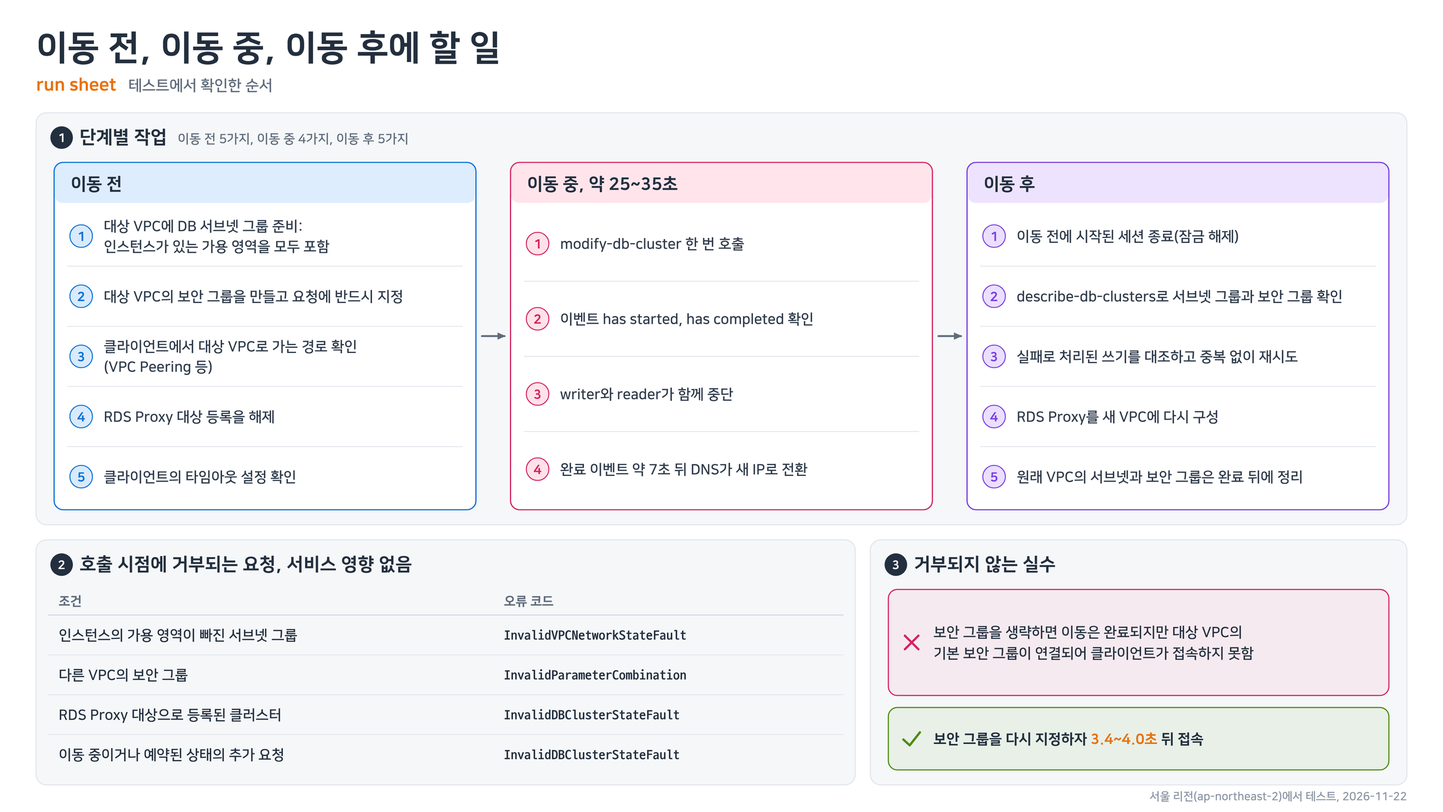
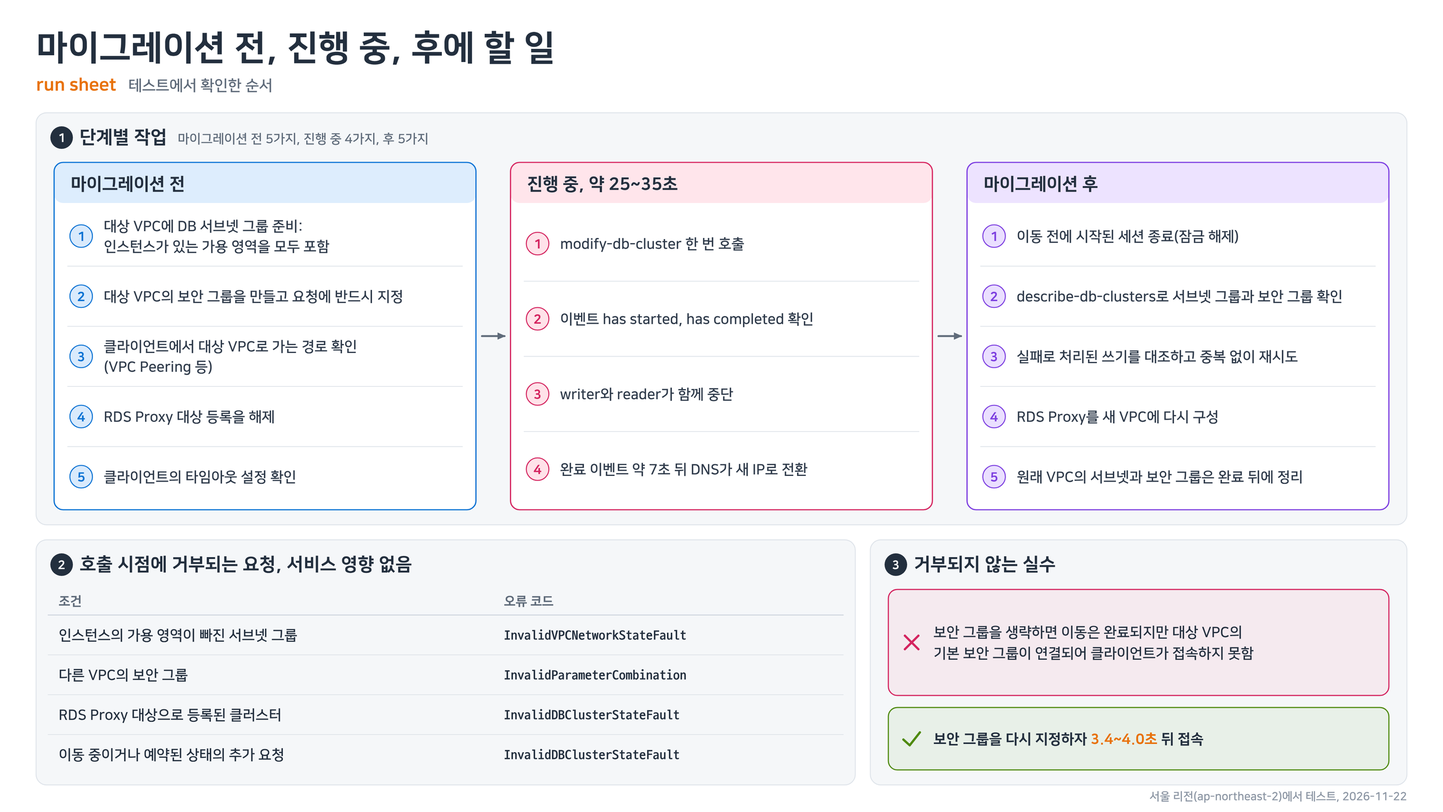
docs: revise the wording of the Aurora cluster VPC move post
- Open the first chapter with a background paragraph of two sentences
- Write "트레이드 오프가 있습니다" for "대가가 있습니다" in the chapter on sessions left on the server
  ("comes with a trade-off" in English)
- Name the phases "마이그레이션 전, 진행 중, 후" in the title of the last chapter, in figure 8
  (both versions) and in table 11 ("before, during and after the migration" in English)
- Add the changelog entry in both sections

diff --git a/docs/techblog/database/aurora-move-cluster-to-different-vpc-report.html b/docs/techblog/database/aurora-move-cluster-to-different-vpc-report.html
@@ -202,16 +202,17 @@ html[data-lang="en"] .l-ko{display:none!important}
 <div class="tags"><span>#Amazon Aurora</span><span>#Aurora PostgreSQL</span><span>#Aurora MySQL</span><span>#Amazon VPC</span><span>#ModifyDBCluster</span></div>
 <ul class="facts"><li><span class="l-ko"><b>중단 시간</b>: 유지 중이던 연결의 쓰기 중단은 VPC 간 이동 30회의 중앙값으로 24.7초(최소 18.1초, 최대 31.3초)였습니다. 엔진, 데이터 크기(0.2GB와 23GB), 같은 VPC 안의 이동 여부에 따른 차이는 없었습니다.</span><span class="l-en"><b>Interruption</b>: writes on an open connection were interrupted for a median of 24.7 s (18.1 s to 31.3 s) over 30 cross-VPC moves. The engine, the data size (0.2 GB and 23 GB) and a move inside one VPC made no difference.</span></li><li><span class="l-ko"><b>시간 순서</b>: API 호출 후 10.9초에 연결이 끊기고 27.8초에 완료 이벤트가 기록되며 34.6초에 DNS 응답이 새 IP로 바뀝니다. writer와 reader는 함께 끊깁니다.</span><span class="l-en"><b>Timeline</b>: connections are cut 10.9 s after the API call, the completion event is logged at 27.8 s, and the DNS answer switches to the new IP at 34.6 s. The writer and the reader are cut together.</span></li><li><span class="l-ko"><b>클라이언트 타임아웃</b>: 타임아웃이 없는 클라이언트는 새 연결을 25초 만에 맺었지만 유지 중이던 연결은 963초 동안 응답을 기다렸습니다.</span><span class="l-en"><b>Client timeouts</b>: a client without timeouts opened new connections after 25 s, but its open connection waited 963 s for an answer.</span></li><li><span class="l-ko"><b>서버에 남는 세션</b>: 엔진이 재시작하지 않아 끊긴 클라이언트의 세션과 행 잠금이 약 360초 남았습니다. 이동 직후에 이동 전 세션을 종료하면 10초 안에 풀립니다.</span><span class="l-en"><b>Sessions left on the server</b>: the engine does not restart, so the sessions and row locks of cut clients stayed for about 360 s. Terminating the old sessions right after the move released the locks within 10 s.</span></li><li><span class="l-ko"><b>사전 검증</b>: 가용 영역이 빠진 서브넷 그룹, 다른 VPC의 보안 그룹, RDS Proxy 대상 등록은 호출 시점에 거부됩니다. 보안 그룹을 생략한 요청은 거부되지 않고 이동 뒤에 접속이 막힙니다.</span><span class="l-en"><b>Checks at call time</b>: a subnet group that lacks an Availability Zone, a security group of another VPC and an RDS Proxy target registration are rejected at call time. A request without security groups is not rejected and leaves clients unable to connect after the move.</span></li></ul>
 </header>
-<nav class="toc l-ko" aria-label="목차"><span class="toc-label">목차</span><a href="#ko-s1">Aurora 클러스터의 VPC를 바꾸던 기존 방식</a><a href="#ko-s2">쓰기 중단 24.7초, 타임아웃이 없으면 16분</a><a href="#ko-s3">새 클러스터를 만들지 않고 서브넷 그룹만 바꾸는 방식</a><a href="#ko-s4">서울 리전 테스트 환경과 측정 방법</a><a href="#ko-s5">호출부터 복구까지 35.7초, 그중 쓰기 중단 24.7초</a><a href="#ko-s6">엔진과 데이터 크기가 달라도 같은 25초</a><a href="#ko-s7">타임아웃이 없는 클라이언트의 963초 중단</a><a href="#ko-s8">서버에 약 6분 동안 남는 세션과 잠금</a><a href="#ko-s9">호출 시점에 거부되는 요청과 거부되지 않는 실수</a><a href="#ko-s10">클러스터 VPC 이동을 활용하는 경우</a><a href="#ko-s11">테스트하지 못한 구성과 다시 확인할 항목</a><a href="#ko-s12">이동 전, 이동 중, 이동 후에 할 일</a><a href="#sources">참고 자료</a></nav>
-<nav class="toc l-en" aria-label="Contents"><span class="toc-label">Contents</span><a href="#en-s1">How an Aurora cluster's VPC was changed until now</a><a href="#en-s2">Writes stop for 24.7 s, or 16 minutes without timeouts</a><a href="#en-s3">Changing only the subnet group instead of creating a new cluster</a><a href="#en-s4">The test environment in the Seoul Region and the method</a><a href="#en-s5">35.7 s from the call to recovery, 24.7 s of it without writes</a><a href="#en-s6">The same 25 s whatever the engine or the data size</a><a href="#en-s7">The 963 s stall of a client without timeouts</a><a href="#en-s8">Sessions and locks that stay on the server for about six minutes</a><a href="#en-s9">Requests rejected at call time, and the mistake that is not rejected</a><a href="#en-s10">Where a cluster VPC move fits</a><a href="#en-s11">What I did not test and what to check again</a><a href="#en-s12">What to do before, during and after the move</a><a href="#sources">References</a></nav>
+<nav class="toc l-ko" aria-label="목차"><span class="toc-label">목차</span><a href="#ko-s1">Aurora 클러스터의 VPC를 바꾸던 기존 방식</a><a href="#ko-s2">쓰기 중단 24.7초, 타임아웃이 없으면 16분</a><a href="#ko-s3">새 클러스터를 만들지 않고 서브넷 그룹만 바꾸는 방식</a><a href="#ko-s4">서울 리전 테스트 환경과 측정 방법</a><a href="#ko-s5">호출부터 복구까지 35.7초, 그중 쓰기 중단 24.7초</a><a href="#ko-s6">엔진과 데이터 크기가 달라도 같은 25초</a><a href="#ko-s7">타임아웃이 없는 클라이언트의 963초 중단</a><a href="#ko-s8">서버에 약 6분 동안 남는 세션과 잠금</a><a href="#ko-s9">호출 시점에 거부되는 요청과 거부되지 않는 실수</a><a href="#ko-s10">클러스터 VPC 이동을 활용하는 경우</a><a href="#ko-s11">테스트하지 못한 구성과 다시 확인할 항목</a><a href="#ko-s12">마이그레이션 전, 진행 중, 후에 할 일</a><a href="#sources">참고 자료</a></nav>
+<nav class="toc l-en" aria-label="Contents"><span class="toc-label">Contents</span><a href="#en-s1">How an Aurora cluster's VPC was changed until now</a><a href="#en-s2">Writes stop for 24.7 s, or 16 minutes without timeouts</a><a href="#en-s3">Changing only the subnet group instead of creating a new cluster</a><a href="#en-s4">The test environment in the Seoul Region and the method</a><a href="#en-s5">35.7 s from the call to recovery, 24.7 s of it without writes</a><a href="#en-s6">The same 25 s whatever the engine or the data size</a><a href="#en-s7">The 963 s stall of a client without timeouts</a><a href="#en-s8">Sessions and locks that stay on the server for about six minutes</a><a href="#en-s9">Requests rejected at call time, and the mistake that is not rejected</a><a href="#en-s10">Where a cluster VPC move fits</a><a href="#en-s11">What I did not test and what to check again</a><a href="#en-s12">What to do before, during and after the migration</a><a href="#sources">References</a></nav>
 <div class="col l-ko" lang="ko">
 <section class="sec" id="ko-s1"><header class="sec-head"><h2>Aurora 클러스터의 VPC를 바꾸던 기존 방식</h2></header><div class="prose">
+<p>Amazon Aurora는 2026년 11월 19일부터 클러스터를 다른 VPC로 옮기는 기능을 제공합니다. 운영 중인 데이터베이스에 적용하려면 옮기는 동안 연결이 얼마나 끊기는지를 먼저 알아야 합니다.</p>
 <p>Aurora 클러스터를 다른 VPC로 옮겨야 하는 경우는 드물지 않습니다. 서브넷의 IP 주소가 부족해 더 넓은 대역의 VPC가 필요한 경우와 다른 네트워크와 연결하려는데 CIDR이 겹치는 경우가 대표적입니다. 여러 VPC에 흩어진 클러스터를 공유 VPC로 모으는 경우와 보안과 규정 요구가 바뀐 경우도 여기에 해당합니다. <a href="https://aws.amazon.com/ko/about-aws/whats-new/2026/11/aurora-move-clusters-to-different-vpc/" target="_blank" rel="noopener">발표문</a>과 <a href="https://docs.aws.amazon.com/AmazonRDS/latest/AuroraUserGuide/USER_VPC.WorkingWithRDSInstanceinaVPC.html" target="_blank" rel="noopener">Aurora 사용 설명서</a>도 같은 예를 듭니다.</p>
 <p>클러스터가 어느 VPC에 속하는지는 DB 서브넷 그룹이 정합니다. 지금까지는 클러스터를 만든 뒤에 이 값을 바꿀 수 없었습니다. 그래서 VPC를 바꾸려면 대상 VPC에 새 클러스터를 만들어 데이터를 옮겨야 했습니다.</p>
 <figure class="fig"><div class="canvas wide"><img src="aurora-move-cluster-to-different-vpc-assets/fig01-legacy.png" alt="Aurora 클러스터의 VPC를 옮기게 되는 경우 다섯 가지, 새 클러스터를 만들어 데이터를 복제하고 엔드포인트를 전환하던 기존 절차 다섯 단계, 그 어려움 네 가지를 정리한 그림" width="1280" height="720" loading="lazy"></div><figcaption><b>그림 1.</b> 새 클러스터를 만들어 옮기던 기존 절차와 어려웠던 점</figcaption></figure>
 <p>기존 절차는 대상 VPC에 서브넷 그룹과 보안 그룹을 준비하는 일에서 시작합니다. 다음으로 <a href="https://docs.aws.amazon.com/AmazonRDS/latest/AuroraUserGuide/Aurora.Managing.Clone.html" target="_blank" rel="noopener">클론</a>이나 스냅샷 복원으로 새 클러스터를 만들고 복제 시점 이후의 변경분을 새 클러스터에 맞춥니다. 그 뒤 애플리케이션의 접속 문자열을 새 엔드포인트로 수정하고 기존 클러스터를 삭제합니다.</p>
 <p>이 방식이 어려웠던 이유는 새 클러스터가 기존 클러스터와 다른 리소스이기 때문입니다. 엔드포인트 이름이 달라지므로 접속하는 모든 애플리케이션의 설정을 수정해야 합니다. ARN과 리소스 ID도 새로 생겨서 이를 참조하는 설정을 함께 수정합니다. 클론과 스냅샷은 특정 시점의 사본이므로 그 뒤의 변경분을 맞추려면 쓰기를 멈추거나 복제를 구성해야 합니다. 전환이 끝날 때까지는 클러스터 두 개를 함께 운영합니다.</p>
-<p>클론은 다른 VPC에 만들 수 있지만 문서에 따르면 두 VPC의 서브넷이 같은 가용 영역에 대응해야 합니다. 2026년 11월 19일의 발표는 이 작업을 API 호출 한 번으로 바꿨습니다. 이 글은 그 호출 한 번 동안 일어나는 일을 서울 리전에서 테스트한 기록입니다.</p>
+<p>클론은 다른 VPC에 만들 수 있지만 문서에 따르면 두 VPC의 서브넷이 같은 가용 영역에 대응해야 합니다. 새 기능은 이 작업을 API 호출 한 번으로 바꿨습니다. 이 글은 그 호출 한 번 동안 일어나는 일을 서울 리전에서 테스트한 기록입니다.</p>
 </div></section>
 
 <section class="sec" id="ko-s2"><header class="sec-head"><p class="eyebrow">01</p><h2>쓰기 중단 24.7초, 타임아웃이 없으면 16분</h2></header><div class="prose">
@@ -440,7 +441,7 @@ pymysql.connect(
 </div></section>
 
 <section class="sec" id="ko-s8"><header class="sec-head"><p class="eyebrow">07</p><h2>서버에 약 6분 동안 남는 세션과 잠금</h2></header><div class="prose">
-<p>엔진이 재시작하지 않는다는 점에는 대가가 있습니다. 서버는 클라이언트가 사라진 것을 바로 알지 못하므로 끊긴 연결의 세션이 서버에 그대로 남습니다. 트랜잭션을 연 채 끊긴 세션은 행 잠금도 계속 쥐고 있습니다.</p>
+<p>엔진이 재시작하지 않는다는 점에는 트레이드 오프가 있습니다. 서버는 클라이언트가 사라진 것을 바로 알지 못하므로 끊긴 연결의 세션이 서버에 그대로 남습니다. 트랜잭션을 연 채 끊긴 세션은 행 잠금도 계속 쥐고 있습니다.</p>
 <p>이를 확인하려고 트랜잭션 안에서 행 하나를 <code>UPDATE</code>하고 커밋하지 않는 세션을 만든 뒤 클러스터를 옮겼습니다. 세션의 한 종류는 <code>UPDATE</code> 한 번 뒤에 가만히 있는 유휴 트랜잭션이고 다른 종류는 같은 트랜잭션 안에서 0.05초마다 <code>UPDATE</code>를 반복하는 트랜잭션입니다. 이동이 끝난 뒤 새 연결에서 10초마다 같은 행의 잠금을 시도했습니다.</p>
 <figure class="fig"><div class="canvas wide"><img src="aurora-move-cluster-to-different-vpc-assets/fig06-sessions.png" alt="잠금을 쥔 세션 82개가 모두 약 360초에 정리됐고 측정 프로그램의 연결은 10회 중 5회가 360초를 넘겨 남았으며(끝까지 관측한 3회는 924초 이상) 이동 직후 세션을 종료하면 10초 안에 잠금이 풀림을 보여 주는 시간 그림" width="1280" height="720" loading="lazy"></div><figcaption><b>그림 6.</b> 이동 후 서버에 남은 세션이 정리되기까지의 시간</figcaption></figure>
 <div class="scroll"><table>
@@ -596,38 +597,39 @@ aws rds modify-db-cluster --db-cluster-identifier avm-lab-sv2 \
 </ul>
 </div></section>
 
-<section class="sec" id="ko-s12"><header class="sec-head"><p class="eyebrow">11</p><h2>이동 전, 이동 중, 이동 후에 할 일</h2></header><div class="prose">
-<figure class="fig"><div class="canvas wide"><img src="aurora-move-cluster-to-different-vpc-assets/fig08-runsheet.png" alt="이동 전 5가지, 이동 중 4가지(약 25~35초), 이동 후 5가지 작업과 호출 시점에 거부되는 요청 네 가지, 보안 그룹을 생략하면 접속하지 못하고 다시 지정하면 3.4~4.0초 뒤 접속됨을 정리한 그림" width="1280" height="720" loading="lazy"></div><figcaption><b>그림 8.</b> 테스트에서 확인한 작업 순서와 호출 시점에 거부되는 요청</figcaption></figure>
+<section class="sec" id="ko-s12"><header class="sec-head"><p class="eyebrow">11</p><h2>마이그레이션 전, 진행 중, 후에 할 일</h2></header><div class="prose">
+<figure class="fig"><div class="canvas wide"><img src="aurora-move-cluster-to-different-vpc-assets/fig08-runsheet.png" alt="마이그레이션 전 5가지, 진행 중 4가지(약 25~35초), 후 5가지 작업과 호출 시점에 거부되는 요청 네 가지, 보안 그룹을 생략하면 접속하지 못하고 다시 지정하면 3.4~4.0초 뒤 접속됨을 정리한 그림" width="1280" height="720" loading="lazy"></div><figcaption><b>그림 8.</b> 테스트에서 확인한 작업 순서와 호출 시점에 거부되는 요청</figcaption></figure>
 <div class="scroll"><table>
 <thead>
 <tr><th>시점</th><th>할 일</th><th>근거가 된 결과</th></tr>
 </thead>
 <tbody>
-<tr><td>이동 전</td><td>대상 VPC의 DB 서브넷 그룹에 인스턴스가 있는 가용 영역을 모두 포함</td><td>빠지면 <code>InvalidVPCNetworkStateFault</code>로 거부</td></tr>
-<tr><td>이동 전</td><td>대상 VPC의 보안 그룹을 만들고 요청에 지정</td><td>생략하면 기본 보안 그룹이 연결되어 접속 불가</td></tr>
-<tr><td>이동 전</td><td>클라이언트에서 대상 VPC로 가는 경로와 보안 그룹 규칙 확인</td><td>테스트에서는 VPC Peering 경유</td></tr>
-<tr><td>이동 전</td><td>RDS Proxy 대상 등록 해제</td><td>등록된 상태에서는 <code>InvalidDBClusterStateFault</code>로 거부</td></tr>
-<tr><td>이동 전</td><td>클라이언트의 타임아웃 설정 확인</td><td>없으면 유지 중이던 연결이 963초 멈춤</td></tr>
-<tr><td>이동 중</td><td><code>modify-db-cluster</code> 호출 후 시작과 완료 이벤트 확인</td><td>호출 후 8.0초와 27.8초</td></tr>
-<tr><td>이동 중</td><td>writer와 reader의 동시 중단을 전제로 공지</td><td>쓰기 중단 24.7초, 최대 31.3초</td></tr>
-<tr><td>이동 후</td><td>완료 시각보다 먼저 시작된 세션 종료</td><td>두면 잠금이 약 360초 남음</td></tr>
-<tr><td>이동 후</td><td><code>describe-db-clusters</code>로 서브넷 그룹과 보안 그룹 확인, 접속 검사에는 재시도 적용</td><td>완료 이벤트 후 DNS 전환까지 7.0초</td></tr>
-<tr><td>이동 후</td><td>실패로 처리된 쓰기를 대조하고 중복 없이 재시도</td><td>실패 32건 가운데 2건은 커밋됨</td></tr>
-<tr><td>이동 후</td><td>원래 VPC의 서브넷과 보안 그룹은 완료를 확인한 뒤에 정리</td><td>문서: 실패하면 원래 VPC로 되돌리는 데 필요</td></tr>
+<tr><td>마이그레이션 전</td><td>대상 VPC의 DB 서브넷 그룹에 인스턴스가 있는 가용 영역을 모두 포함</td><td>빠지면 <code>InvalidVPCNetworkStateFault</code>로 거부</td></tr>
+<tr><td>마이그레이션 전</td><td>대상 VPC의 보안 그룹을 만들고 요청에 지정</td><td>생략하면 기본 보안 그룹이 연결되어 접속 불가</td></tr>
+<tr><td>마이그레이션 전</td><td>클라이언트에서 대상 VPC로 가는 경로와 보안 그룹 규칙 확인</td><td>테스트에서는 VPC Peering 경유</td></tr>
+<tr><td>마이그레이션 전</td><td>RDS Proxy 대상 등록 해제</td><td>등록된 상태에서는 <code>InvalidDBClusterStateFault</code>로 거부</td></tr>
+<tr><td>마이그레이션 전</td><td>클라이언트의 타임아웃 설정 확인</td><td>없으면 유지 중이던 연결이 963초 멈춤</td></tr>
+<tr><td>진행 중</td><td><code>modify-db-cluster</code> 호출 후 시작과 완료 이벤트 확인</td><td>호출 후 8.0초와 27.8초</td></tr>
+<tr><td>진행 중</td><td>writer와 reader의 동시 중단을 전제로 공지</td><td>쓰기 중단 24.7초, 최대 31.3초</td></tr>
+<tr><td>마이그레이션 후</td><td>완료 시각보다 먼저 시작된 세션 종료</td><td>두면 잠금이 약 360초 남음</td></tr>
+<tr><td>마이그레이션 후</td><td><code>describe-db-clusters</code>로 서브넷 그룹과 보안 그룹 확인, 접속 검사에는 재시도 적용</td><td>완료 이벤트 후 DNS 전환까지 7.0초</td></tr>
+<tr><td>마이그레이션 후</td><td>실패로 처리된 쓰기를 대조하고 중복 없이 재시도</td><td>실패 32건 가운데 2건은 커밋됨</td></tr>
+<tr><td>마이그레이션 후</td><td>원래 VPC의 서브넷과 보안 그룹은 완료를 확인한 뒤에 정리</td><td>문서: 실패하면 원래 VPC로 되돌리는 데 필요</td></tr>
 </tbody>
 </table></div>
-<p class="cap"><b>표 11.</b> 이동 전후에 할 일과 근거. db.r7g.large와 Serverless v2, 클러스터당 인스턴스 1~2개 조건의 결과</p>
+<p class="cap"><b>표 11.</b> 마이그레이션 전후에 할 일과 근거. db.r7g.large와 Serverless v2, 클러스터당 인스턴스 1~2개 조건의 결과</p>
 <p>중단 시간은 인스턴스 수와 부하에 따라 달라질 가능성이 있습니다. 운영 클러스터에 적용하기 전에 같은 구성의 복제본으로 먼저 측정하는 것을 권고합니다.</p>
 </div></section>
 </div>
 <div class="col l-en" lang="en">
 <section class="sec" id="en-s1"><header class="sec-head"><h2>How an Aurora cluster's VPC was changed until now</h2></header><div class="prose">
+<p>Since November 19, 2026 Amazon Aurora can move a cluster to a different VPC. To use it on a database in production, you first need to know how long connections are cut during the move.</p>
 <p>Having to move an Aurora cluster to another VPC is not rare. The subnets run out of IP addresses and a VPC with a wider range is needed, the CIDR overlaps with a network you want to connect, clusters spread over several VPCs are gathered into a shared VPC, or the security and compliance requirements change. The <a href="https://aws.amazon.com/ko/about-aws/whats-new/2026/11/aurora-move-clusters-to-different-vpc/" target="_blank" rel="noopener">announcement</a> and the <a href="https://docs.aws.amazon.com/AmazonRDS/latest/AuroraUserGuide/USER_VPC.WorkingWithRDSInstanceinaVPC.html" target="_blank" rel="noopener">Aurora User Guide</a> give the same examples.</p>
 <p>The DB subnet group decides which VPC a cluster belongs to. Until now it could not be changed after the cluster was created. So changing the VPC meant creating a new cluster in the destination VPC and moving the data.</p>
 <figure class="fig"><div class="canvas wide"><img src="aurora-move-cluster-to-different-vpc-assets/fig01-legacy-en.png" alt="Five reasons an Aurora cluster changes VPC, the earlier five-step procedure of creating a new cluster, copying data and switching the endpoint, and four things that made it hard" width="1280" height="720" loading="lazy"></div><figcaption><b>Figure 1.</b> The earlier procedure of moving to a new cluster, and what made it hard</figcaption></figure>
 <p>The procedure started with a subnet group and security groups in the destination VPC. Next you created a new cluster by <a href="https://docs.aws.amazon.com/AmazonRDS/latest/AuroraUserGuide/Aurora.Managing.Clone.html" target="_blank" rel="noopener">cloning</a> or restoring a snapshot and brought it in line with the changes made after that point in time. Then you changed the connection strings of the applications to the new endpoint and deleted the old cluster.</p>
 <p>This was hard because the new cluster is a different resource from the old one. The endpoint name changes, so the settings of every application that connects have to change. The ARN and the resource ID are new as well, so settings that refer to them change too. A clone and a snapshot are copies as of one point in time, so catching up with later changes means stopping writes or setting up replication. Until the cutover is done, two clusters run side by side.</p>
-<p>A clone can be created in a different VPC, but according to the documentation the subnets of the two VPCs must map to the same Availability Zones. The announcement of November 19, 2026 turned this work into one API call. This post is a record of what happens during that one call, tested in the Seoul Region.</p>
+<p>A clone can be created in a different VPC, but according to the documentation the subnets of the two VPCs must map to the same Availability Zones. The new feature turns this work into one API call. This post is a record of what happens during that one call, tested in the Seoul Region.</p>
 </div></section>
 
 <section class="sec" id="en-s2"><header class="sec-head"><p class="eyebrow">01</p><h2>Writes stop for 24.7 s, or 16 minutes without timeouts</h2></header><div class="prose">
@@ -856,7 +858,7 @@ pymysql.connect(
 </div></section>
 
 <section class="sec" id="en-s8"><header class="sec-head"><p class="eyebrow">07</p><h2>Sessions and locks that stay on the server for about six minutes</h2></header><div class="prose">
-<p>The fact that the engine does not restart has a price. The server does not learn right away that a client is gone, so the session of a cut connection stays on the server. A session that was cut with a transaction open also keeps its row locks.</p>
+<p>The fact that the engine does not restart comes with a trade-off. The server does not learn right away that a client is gone, so the session of a cut connection stays on the server. A session that was cut with a transaction open also keeps its row locks.</p>
 <p>To check this I created sessions that run an <code>UPDATE</code> on one row inside a transaction and do not commit, and then moved the cluster. There were two kinds of session. One runs a single <code>UPDATE</code> and then sits idle in the transaction. The other repeats the <code>UPDATE</code> every 0.05 s inside the same transaction. After the move a new connection tried to lock the same rows every 10 s.</p>
 <figure class="fig"><div class="canvas wide"><img src="aurora-move-cluster-to-different-vpc-assets/fig06-sessions-en.png" alt="A timeline showing all 82 lock-holding sessions removed at about 360 s, a probe connection outliving 360 s in 5 of 10 moves (the 3 watched to the end lasted 924 s or more), and locks released within 10 s when old sessions are terminated" width="1280" height="720" loading="lazy"></div><figcaption><b>Figure 6.</b> Time until the sessions left on the server after a move were removed</figcaption></figure>
 <div class="scroll"><table>
@@ -1012,7 +1014,7 @@ aws rds modify-db-cluster --db-cluster-identifier avm-lab-sv2 \
 </ul>
 </div></section>
 
-<section class="sec" id="en-s12"><header class="sec-head"><p class="eyebrow">11</p><h2>What to do before, during and after the move</h2></header><div class="prose">
+<section class="sec" id="en-s12"><header class="sec-head"><p class="eyebrow">11</p><h2>What to do before, during and after the migration</h2></header><div class="prose">
 <figure class="fig"><div class="canvas wide"><img src="aurora-move-cluster-to-different-vpc-assets/fig08-runsheet-en.png" alt="A run sheet with 5 steps before, 4 during (about 25 to 35 s) and 5 after the move, four requests rejected at call time, and the unrejected mistake of omitting security groups, fixed 3.4 to 4.0 s after setting them again" width="1280" height="720" loading="lazy"></div><figcaption><b>Figure 8.</b> The order of work confirmed in the test and the requests rejected at call time</figcaption></figure>
 <div class="scroll"><table>
 <thead>

diff --git a/CHANGELOG.md b/CHANGELOG.md
@@ -46,6 +46,7 @@ No version tags exist yet; all changes accumulate under Unreleased.
 ### Changed
 - Post "AWS Transit Gateway 1:1 NAT": the first chapter now opens with an infographic of the whole test setup (figure 1 in a Korean and an English version, replacing the setup diagram of chapter 02); chapter 03 shows the AWS CLI commands used before and after enabling NAT with their output, and chapter 06 the two flow log query commands with their output; the Korean page writes control plane as "컨트롤 플레인"; figures 2 to 4 (NAT on one side only, packet walkthrough, enable timeline) are rebuilt as infographics, so all four figures now share one style
 - Post "AWS Transit Gateway 1:1 NAT": a new opening chapter describes how networks with overlapping IP ranges were connected before 1:1 NAT (a private NAT gateway combined with a load balancer, the cases where ranges overlap, and five difficulties) with a new infographic as figure 1; a new chapter 10 covers where 1:1 NAT is used (figure 6, table 8); the former opening is now chapter 01, so the later chapters move by one or two, and the earlier figures 1 to 4 are now figures 2 to 5 with new file names
+- Post "The interruption when an Amazon Aurora cluster moves to another VPC": the first chapter now opens with a background paragraph of two sentences; the chapter on sessions left on the server says "트레이드 오프가 있습니다" where it said "대가가 있습니다" ("comes with a trade-off" in English); the last chapter, figure 8 (both versions) and table 11 name the phases "마이그레이션 전, 진행 중, 후" ("before, during and after the migration")
 - Top menu: "About" moves to the end, after "Code Pulse" and "LLM Monitor" (Home, Tags, Workshop, Code Pulse, LLM Monitor, About)
 - Post "Start-up and concurrency of AWS Lambda GPU functions": add chapter 08 "Examples where a Lambda GPU function fits well" (four examples backed by the test results, five use cases AWS lists, four cases that do not fit) with a fifth figure in a Korean and an English version; the limits chapter moves to 09 and the settings chapter to 10
 - Post titles: every report page shrinks the title of the visible language until it fits on one line (not below 30px; a title that is still too long wraps at 30px). At a 1440px-wide window 21 of 22 Korean titles and 11 of 22 English titles are on one line (7 and 3 before). All 22 reports were rebuilt with the new `my-plugins:techblogs` template; only their style and script blocks changed
@@ -128,6 +129,7 @@ No version tags exist yet; all changes accumulate under Unreleased.
 ### Changed
 - 게시물 "AWS Transit Gateway 1:1 NAT": 첫 챕터를 전체 테스트 구성 인포그래픽으로 시작(그림 1의 한국어판과 영어판, 챕터 02의 구성도를 대체). 챕터 03에 NAT 활성화 전과 후에 사용한 AWS CLI 명령과 출력, 챕터 06에 Flow Logs 조회 명령 두 개와 출력 추가. 한국어 페이지에서 control plane을 "컨트롤 플레인"으로 표기. 그림 2, 3, 4(한쪽만 활성화, 패킷의 주소 변환, 활성화 타임라인)를 인포그래픽으로 다시 제작해 그림 4장의 스타일을 통일
 - 게시물 "AWS Transit Gateway 1:1 NAT": 1:1 NAT 이전에 IP 대역이 겹치는 네트워크를 연결하던 방식(Private NAT Gateway와 로드 밸런서 조합, 중복이 생기는 경우, 어려움 다섯 가지)을 설명하는 여는 챕터와 새 인포그래픽(그림 1) 추가. 1:1 NAT를 활용하는 경우를 다룬 챕터 10(그림 6, 표 8) 추가. 이전 첫 챕터는 챕터 01이 되어 뒤 챕터 번호가 한두 칸씩 이동했고 기존 그림 1~4는 그림 2~5로 번호와 파일 이름 변경
+- 게시물 "Amazon Aurora 클러스터의 VPC 이동과 중단 시간": 첫 챕터를 두 문장의 배경 문단으로 시작. 서버에 남는 세션 챕터의 "대가가 있습니다"를 "트레이드 오프가 있습니다"로 수정. 마지막 챕터 제목, 그림 8(한국어판과 영어판), 표 11의 단계 이름을 "마이그레이션 전, 진행 중, 후"로 수정
 - 상단 메뉴: "About"을 "Code Pulse"와 "LLM Monitor" 다음인 마지막 자리로 이동 (Home, Tags, Workshop, Code Pulse, LLM Monitor, About 순서)
 - 게시물 "AWS Lambda GPU 함수의 시작과 동시성": 챕터 08 "Lambda GPU 함수를 활용하기 좋은 예시" 추가(테스트 결과를 근거로 든 예시 네 가지, AWS가 제시한 사례 다섯 가지, 맞지 않는 경우 네 가지), 그림 5의 한국어판과 영어판 포함. 테스트의 한계 챕터는 09, 설정 권고 챕터는 10으로 이동
 - 게시물 제목: 모든 리포트 페이지가 보이는 언어의 제목을 한 줄에 들어갈 때까지 줄임(30px 아래로는 줄이지 않고, 그래도 긴 제목은 30px에서 줄을 바꿈). 창 폭 1440px에서 한국어 제목 22편 중 21편, 영어 제목 22편 중 11편이 한 줄(이전 7편, 3편). 22편을 새 `my-plugins:techblogs` 템플릿으로 다시 빌드했고 스타일과 스크립트 블록만 바뀜
